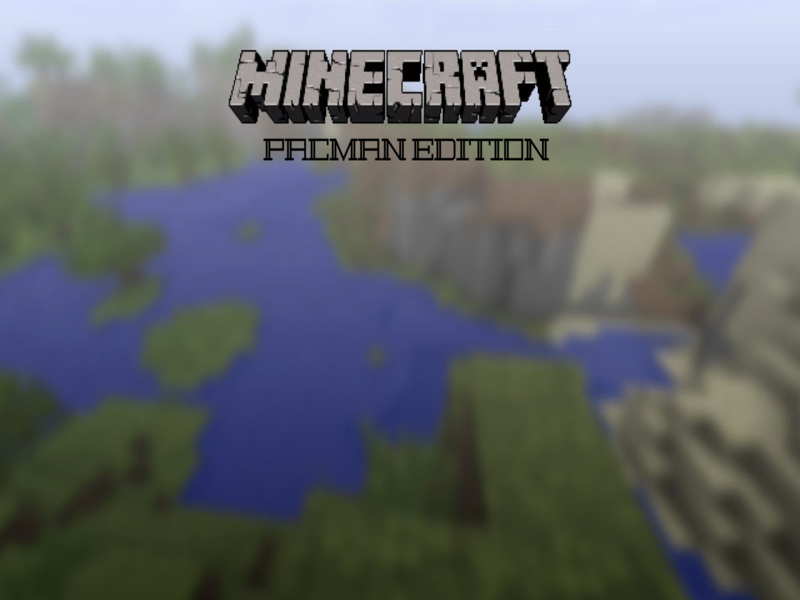
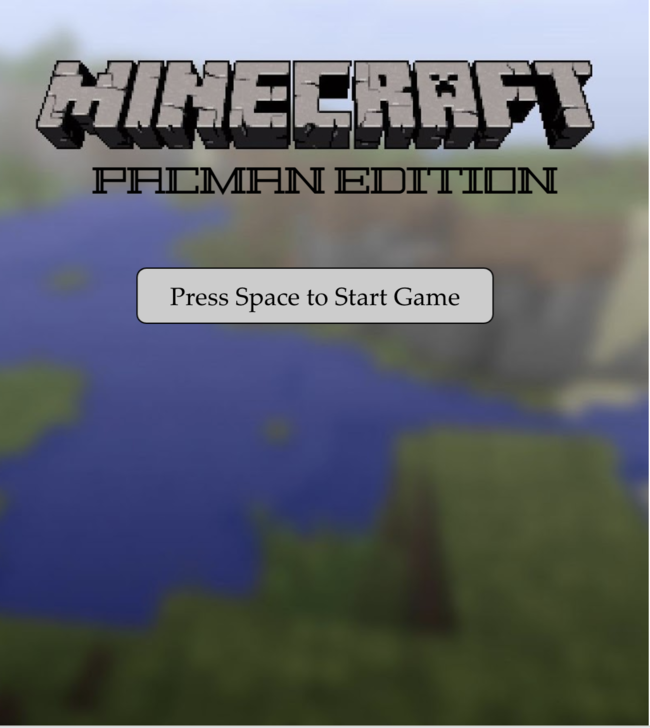
updated item collision/score + new start screen

diff --git a/MinecraftPacman/src/Driver.java b/MinecraftPacman/src/Driver.java
@@ -142,17 +142,14 @@ public class Driver extends JPanel implements ActionListener, KeyListener, Mouse
 		g.drawString("Score: " + score, 20, 30);
 		
 		background.paint(g);
-		g.setColor(Color.gray);
-		g.fillRect(200, 270, 400, 50);
-		g.setColor(Color.white);
-		g.setFont(font2);
-		g.drawString("Press Space to Start", 220, 300);
 		
 		
 		for (int row = 0; row < coins.length; row++) {
 			for (int col = 0; col < coins[0].length; col++) {
 				if (coins[row][col].hitPlayer(player)) {
-					//score += 10;
+					coins[row][col].setX(1000);
+					coins[row][col].setY(0);
+					score += 10;
 				}
 			}
 		}
@@ -162,6 +159,19 @@ public class Driver extends JPanel implements ActionListener, KeyListener, Mouse
 				score += 40;
 				immuneCoins.remove(i);
 			}
+		}
+	
+		
+		if (fruit1.hitPlayer(player)) {
+			score += 100;
+			fruit1.setX(1000);
+			fruit2.setY(0);
+		}
+		
+		if (fruit2.hitPlayer(player)) {
+			score += 100;
+			fruit2.setX(1000);
+			fruit2.setY(0);
 		}
 		
 		

diff --git a/MinecraftPacman/src/RegCoin.java b/MinecraftPacman/src/RegCoin.java
@@ -68,7 +68,7 @@ public class RegCoin extends Coin {
 	}
 	
 	public Rectangle getRect() {
-		Rectangle temp = new Rectangle(x+10,y+10,width-20,height-20);
+		Rectangle temp = new Rectangle(x,y,width-20,height-20);
 		return temp;
 	}
 	public boolean hitPlayer(Player p) {

diff --git a/MinecraftPacman/src/Fruit.java b/MinecraftPacman/src/Fruit.java
@@ -68,7 +68,7 @@ public class Fruit extends Coin {
 	}
 	
 	public Rectangle getRect() {
-		Rectangle temp = new Rectangle(x,y,width,height);
+		Rectangle temp = new Rectangle(x ,y,width-10,height-10);
 		return temp;
 	}
 	public boolean hitPlayer(Player p) {

diff --git a/MinecraftPacman/src/ImmunityCoin.java b/MinecraftPacman/src/ImmunityCoin.java
@@ -68,7 +68,7 @@ public class ImmunityCoin {
 	}
 
 	public Rectangle getRect() {
-		Rectangle temp = new Rectangle(x+10,y+10,width-20,height-20);
+		Rectangle temp = new Rectangle(x,y,width,height);
 		return temp;
 	}
 	public boolean hitPlayer(Player p) {
